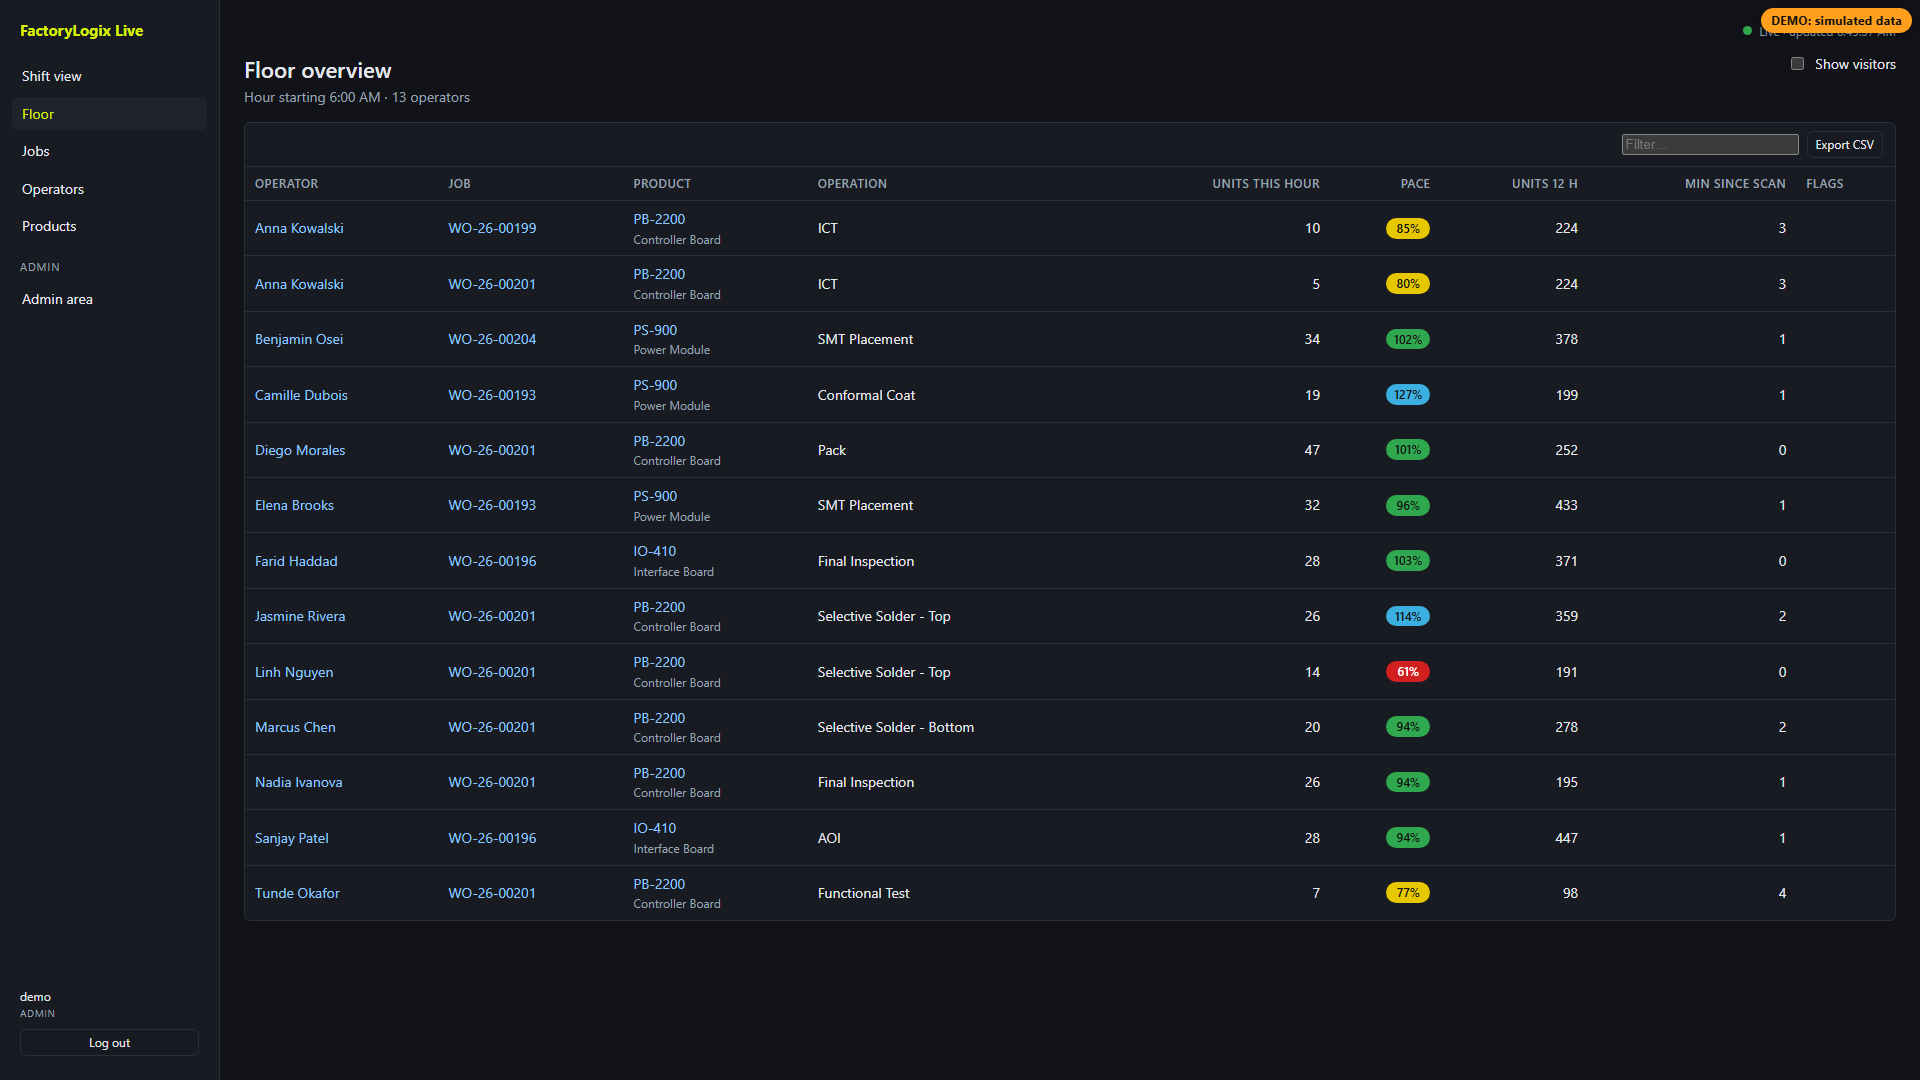
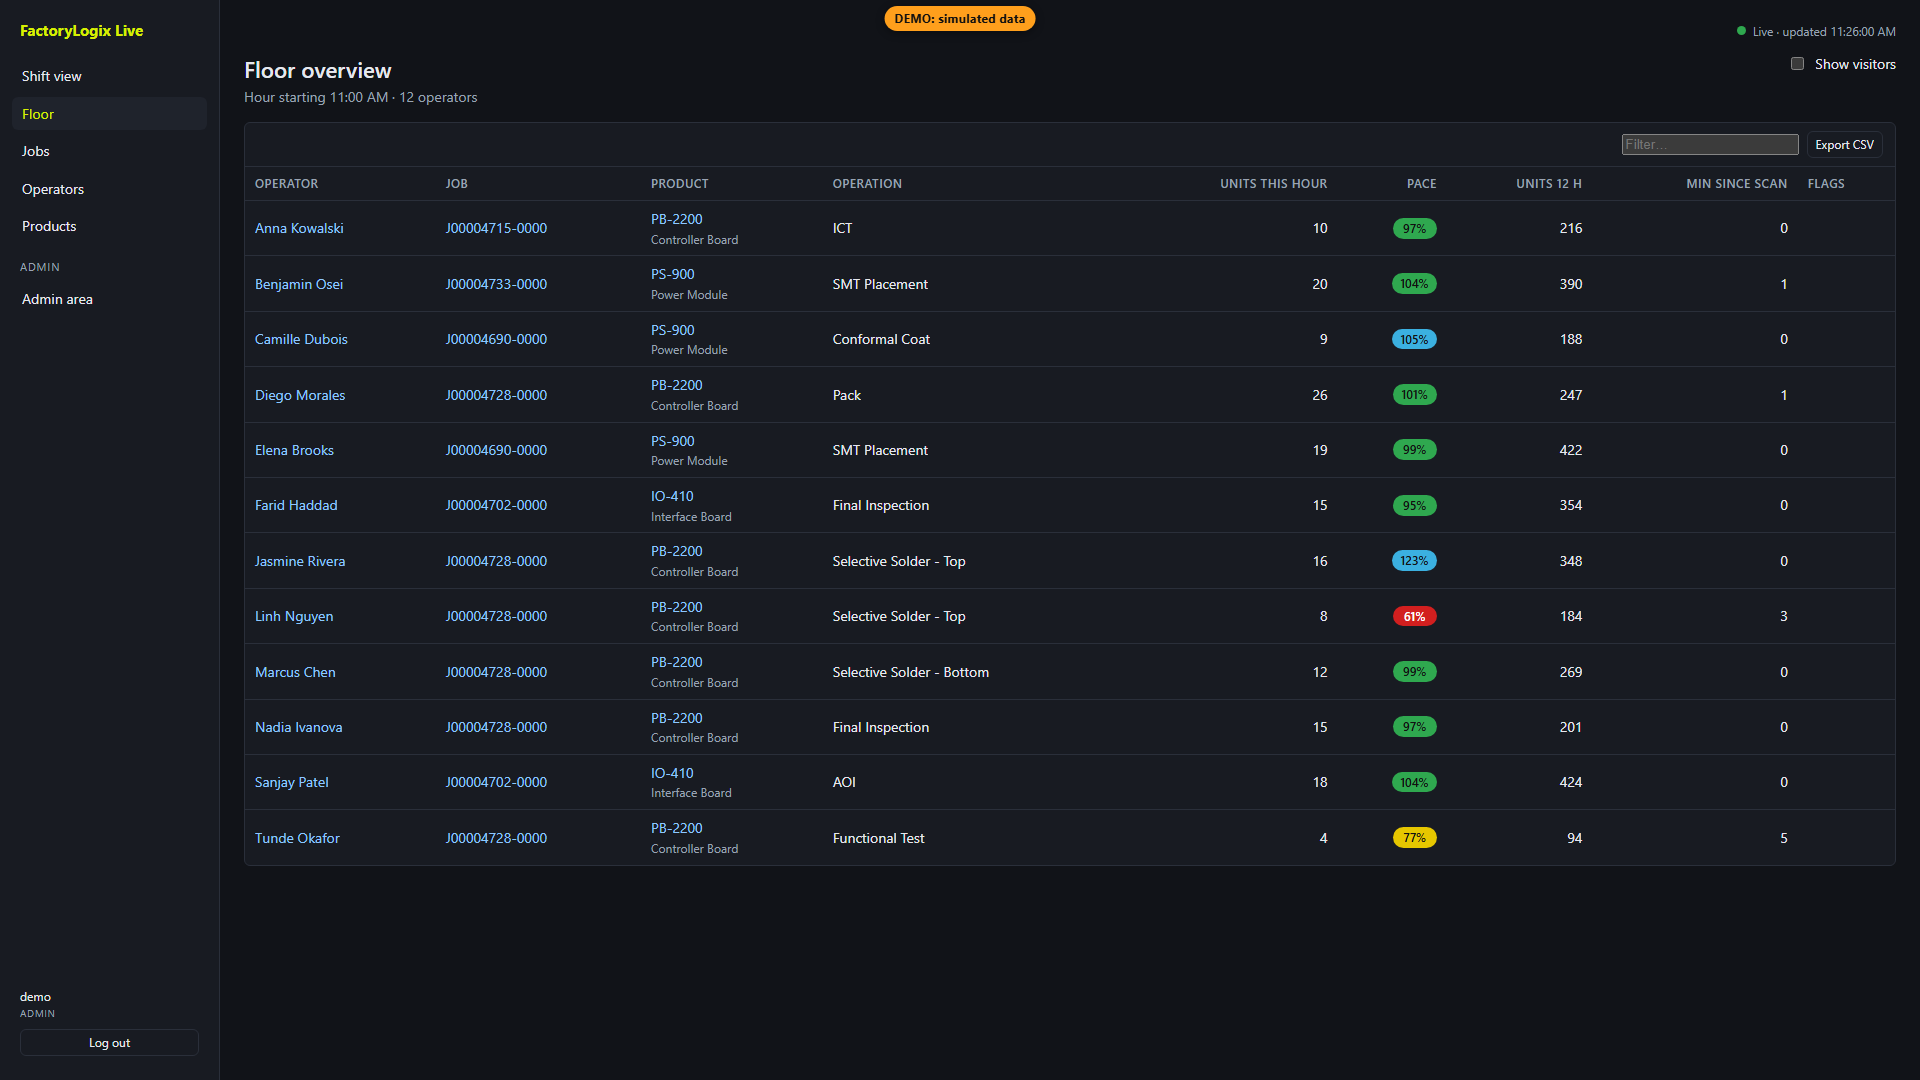
Demo: job numbers in J########-#### format

diff --git a/apps/web/src/data/mock/simulator/world.ts b/apps/web/src/data/mock/simulator/world.ts
@@ -199,39 +199,29 @@ export interface DemoJob {
 }
 
 /** The job both demo TVs show (spec 12.4). */
-export const FEATURED_JOB = 'WO-26-00201';
+export const FEATURED_JOB = 'J00004728-0000';
 /** Second job used by the "display job changed" scenario and the half-hour switcher. */
-export const SECONDARY_JOB = 'WO-26-00199';
+export const SECONDARY_JOB = 'J00004715-0000';
 /** The visitor's own job. */
-export const VISITOR_HOME_JOB = 'WO-26-00196';
+export const VISITOR_HOME_JOB = 'J00004702-0000';
 /** Just-released job (a handful of units only). */
-export const NEW_JOB = 'WO-26-00204';
+export const NEW_JOB = 'J00004733-0000';
 
 const FILLER_PRODUCTS = ['PB-2200', 'IO-410', 'PS-900'];
 
+/** Demo job numbers use the J########-#### shape (invented sequence numbers, no real data). */
+export function jobNumber(seq: number): string {
+  return 'J' + String(seq).padStart(8, '0') + '-0000';
+}
+
 /** 14 older, completed jobs carrying the bulk of the 30 days of history. */
 function fillerJobs(): DemoJob[] {
-  const numbers = [
-    '00121',
-    '00125',
-    '00129',
-    '00133',
-    '00137',
-    '00141',
-    '00146',
-    '00150',
-    '00154',
-    '00158',
-    '00163',
-    '00167',
-    '00171',
-    '00175',
-  ];
+  const numbers = [4601, 4605, 4609, 4613, 4617, 4621, 4626, 4630, 4634, 4638, 4643, 4647, 4651, 4655];
   const qtys = [520, 380, 610, 450, 300, 760, 410, 540, 260, 680, 350, 470, 590, 320];
   return numbers.map((n, i) => {
     const start = 31 - i * 1.9;
     return {
-      job_number: 'WO-26-' + n,
+      job_number: jobNumber(n),
       product_number: FILLER_PRODUCTS[i % 3]!,
       qty_released: qtys[i]!,
       start_days_ago: start,
@@ -245,7 +235,7 @@ function fillerJobs(): DemoJob[] {
 export const JOBS: DemoJob[] = [
   ...fillerJobs(),
   {
-    job_number: 'WO-26-00187',
+    job_number: 'J00004673-0000',
     product_number: 'PB-2200',
     qty_released: 600,
     start_days_ago: 12,
@@ -254,7 +244,7 @@ export const JOBS: DemoJob[] = [
     status: 'Closed',
   },
   {
-    job_number: 'WO-26-00190',
+    job_number: 'J00004681-0000',
     product_number: 'IO-410',
     qty_released: 450,
     start_days_ago: 9,
@@ -263,7 +253,7 @@ export const JOBS: DemoJob[] = [
     status: 'Closed',
   },
   {
-    job_number: 'WO-26-00193',
+    job_number: 'J00004690-0000',
     product_number: 'PS-900',
     qty_released: 800,
     start_days_ago: 2.5,

diff --git a/apps/web/src/pages/tv/TvDashboard.render.test.ts b/apps/web/src/pages/tv/TvDashboard.render.test.ts
@@ -7,7 +7,7 @@ import { TvDashboard } from './TvDashboard';
 const cols = Array.from({ length: 12 }, (_, i) => ({ hour_start_utc: 1000 + i * 3600000, label: String(10 + i) }));
 const colors = ['blank', 'neutral', 'red', 'yellow', 'green', 'blue', 'visitor'] as const;
 const d: TvDashboardData = {
-  job: { job_number: 'WO-26-00187', product_number: 'PB-2200', product_name: 'Controller Board', qty_released: 500, qty_complete: 123, progress: 0.246 },
+  job: { job_number: 'J00004673-0000', product_number: 'PB-2200', product_name: 'Controller Board', qty_released: 500, qty_complete: 123, progress: 0.246 },
   grouped: false,
   show_std_day: true,
   columns: cols,
@@ -30,7 +30,7 @@ const d: TvDashboardData = {
 describe('TvDashboard smoke', () => {
   it('renders separate mode', () => {
     const html = renderToStaticMarkup(createElement(TvDashboard, { dashboard: d, showGauge: true, tz: 'America/New_York', updatedAt: Date.now() }));
-    expect(html).toContain('WO-26-00187');
+    expect(html).toContain('J00004673-0000');
     expect(html).toContain('Qty Complete');
     expect(html).toContain('>Operator<');
     expect(html).toContain('>JRivera<'); // user name, not the display name

diff --git a/apps/web/src/data/mock/simulator/history.ts b/apps/web/src/data/mock/simulator/history.ts
@@ -104,7 +104,8 @@ export class UnitAllocator {
       }
     }
     this.counters.set(key, n);
-    const short = job_number.replace('WO-26-', '');
+    // "J00004673-0000" -> "4673" for compact unit serials like NB-4673-00001
+    const short = job_number.replace(/^J0*/, '').replace(/-\d+$/, '');
     return 'NB-' + short + '-' + String(n).padStart(5, '0');
   }
 
@@ -418,8 +419,8 @@ export function buildActors(): Actor[] {
     visitorActor('SPatel', 'AOI', 5),
     halfHourSwitchActor('AKowalski', 'ICT', SECONDARY_JOB, FEATURED_JOB),
     // Other active jobs so the floor and shift views have rows.
-    steadyActor('EBrooks', 'WO-26-00193', 'SMT Placement', 0, null),
-    steadyActor('CDubois', 'WO-26-00193', 'Conformal Coat', 1, null),
+    steadyActor('EBrooks', 'J00004690-0000', 'SMT Placement', 0, null),
+    steadyActor('CDubois', 'J00004690-0000', 'Conformal Coat', 1, null),
     steadyActor('FHaddad', VISITOR_HOME_JOB, 'Final Inspection', 0, null),
     steadyActor('BOsei', NEW_JOB, 'SMT Placement', 3, null),
   ];

diff --git a/apps/web/src/data/mock/mock.test.ts b/apps/web/src/data/mock/mock.test.ts
@@ -53,7 +53,7 @@ describe('simulated world', () => {
       for (const op of p.route) expect(OPERATIONS).toContain(op);
     }
     for (const j of JOBS) {
-      expect(j.job_number).toMatch(/^WO-26-\d{5}$/);
+      expect(j.job_number).toMatch(/^J\d{8}-\d{4}$/);
       expect(j.qty_released).toBeGreaterThanOrEqual(200);
       expect(j.qty_released).toBeLessThanOrEqual(800);
     }
@@ -248,7 +248,7 @@ describe('tv', () => {
 
     // The half-hour job switcher appears on both jobs.
     expect(dash.rows.some((r) => r.operator_id === 'AKowalski' && r.operation === 'ICT')).toBe(true);
-    const other = await ds.dashboard('WO-26-00199', { grouped: false });
+    const other = await ds.dashboard('J00004715-0000', { grouped: false });
     expect(other.rows.some((r) => r.operator_id === 'AKowalski' && r.operation === 'ICT')).toBe(
       true,
     );

diff --git a/docs/WEB_NOTES.md b/docs/WEB_NOTES.md
@@ -63,11 +63,11 @@ Read with `docs/SPEC.md` sections 8, 9, 10, 12 and `docs/API.md`.
 
 ## Mock data source (spec 12) — `src/data/mock/`
 
-- `simulator/world.ts`: fictional company "Northbridge Circuit Assembly"; products `PB-2200 Controller Board`, `IO-410 Interface Board`, `PS-900 Power Module`; work orders `WO-26-00187` … (released 200–800); route subset per product from: SMT Placement, Reflow, AOI, Selective Solder - Top, Selective Solder - Bottom, ICT, Functional Test, Conformal Coat, Final Inspection, Pack; 14 invented operators (`JRivera`, `MChen`, `TOkafor`, `LNguyen`, `SPatel`, `AKowalski`, `DMorales`, `KYamada`, `RSingh`, `EBrooks`, `FHaddad`, `NIvanova`, `BOsei`, `CDubois`); shifts Day 07:00–19:00 / Night 19:00–07:00 (every day); breaks 09:30/15, 12:00/30, 14:00/15, 17:30/15 and night equivalents 21:30/15, 00:00/30, 02:00/15, 05:30/15; base rates per operation (Selective Solder ~30/h, Functional Test ~12/h, Pack ~60/h, others in between) with per-operator speed factors.
+- `simulator/world.ts`: fictional company "Northbridge Circuit Assembly"; products `PB-2200 Controller Board`, `IO-410 Interface Board`, `PS-900 Power Module`; work orders `J00004673-0000` … (released 200–800); route subset per product from: SMT Placement, Reflow, AOI, Selective Solder - Top, Selective Solder - Bottom, ICT, Functional Test, Conformal Coat, Final Inspection, Pack; 14 invented operators (`JRivera`, `MChen`, `TOkafor`, `LNguyen`, `SPatel`, `AKowalski`, `DMorales`, `KYamada`, `RSingh`, `EBrooks`, `FHaddad`, `NIvanova`, `BOsei`, `CDubois`); shifts Day 07:00–19:00 / Night 19:00–07:00 (every day); breaks 09:30/15, 12:00/30, 14:00/15, 17:30/15 and night equivalents 21:30/15, 00:00/30, 02:00/15, 05:30/15; base rates per operation (Selective Solder ~30/h, Functional Test ~12/h, Pack ~60/h, others in between) with per-operator speed factors.
 - `simulator/history.ts`: seeded PRNG (e.g. mulberry32) generating 30 days of unit_steps/defects/work orders ending at "now", deterministic per seed. Keep it under ~150k steps; generate lazily once and cache.
 - `simulator/live.ts`: advances in real time from page load (`tick()` on a 5 s interval, scaled by a speed factor `window.__fldDemo.speed` / `?speed=` param; expose `window.__fldDemo = { setSpeed, getState }` as the hidden reviewer control) and scripts the scenarios in spec 12.4: one operator blue, one green, one yellow, one red; a visitor scanning 6 rework boards in 2 minutes on another job; an operator switching jobs at the half hour; the 14:00 break; defects 1–3/h on two operations; a display whose job changes at a scripted moment (~3 min after load); two displays (separate + grouped) on the same job.
 - `MockDataSource.ts`: holds world state + in-memory admin state (displays, shifts, breaks, settings, users, adjustments, overrides, pins, audit) that resets on reload; computes every view with the engine (`computeHourCells` over the needed range with a 3 h lookback, `groupCells`, `computeDefectHourCells`, `computeStandard` for all product/operations at startup from history, `buildStandardsLookup`, `buildTvDashboard`, `buildShiftView`, `buildFloorView`, `buildOperatorDetail`, `buildJobDetail`, `buildProductView`, `computeRollups`, `rollingWindowColumns`, `listShiftInstances`, `findCurrentOrMostRecentShift`, `expandBreaks`). Cache hour cells for completed hours; recompute only current + previous hour on each tick. `subscribe()` emits `data_updated` after each tick and `display_updated` on admin changes. `me()` returns a demo admin user (`demo`) so the portal opens without login; `login` accepts any credentials; `setupStatus` → `needs_setup:false`. `syncHealth` returns ok (with a scripted 2-minute "delayed" episode ~5 min after load to demonstrate the banner). Connection test/metadata/preview return canned successful results with a fake entity list.
 
 ## Verification expectations
 
-- `pnpm --filter @fld/web typecheck` clean; `pnpm build:web:mock` succeeds; `pnpm dev:web:mock` renders `/tv?demo=1`, `/tv?demo=2`, `/`, `/floor`, `/operators/JRivera`, `/jobs/WO-26-00187`, `/products/PB-2200`, `/admin/*` without console errors.
+- `pnpm --filter @fld/web typecheck` clean; `pnpm build:web:mock` succeeds; `pnpm dev:web:mock` renders `/tv?demo=1`, `/tv?demo=2`, `/`, `/floor`, `/operators/JRivera`, `/jobs/J00004673-0000`, `/products/PB-2200`, `/admin/*` without console errors.
